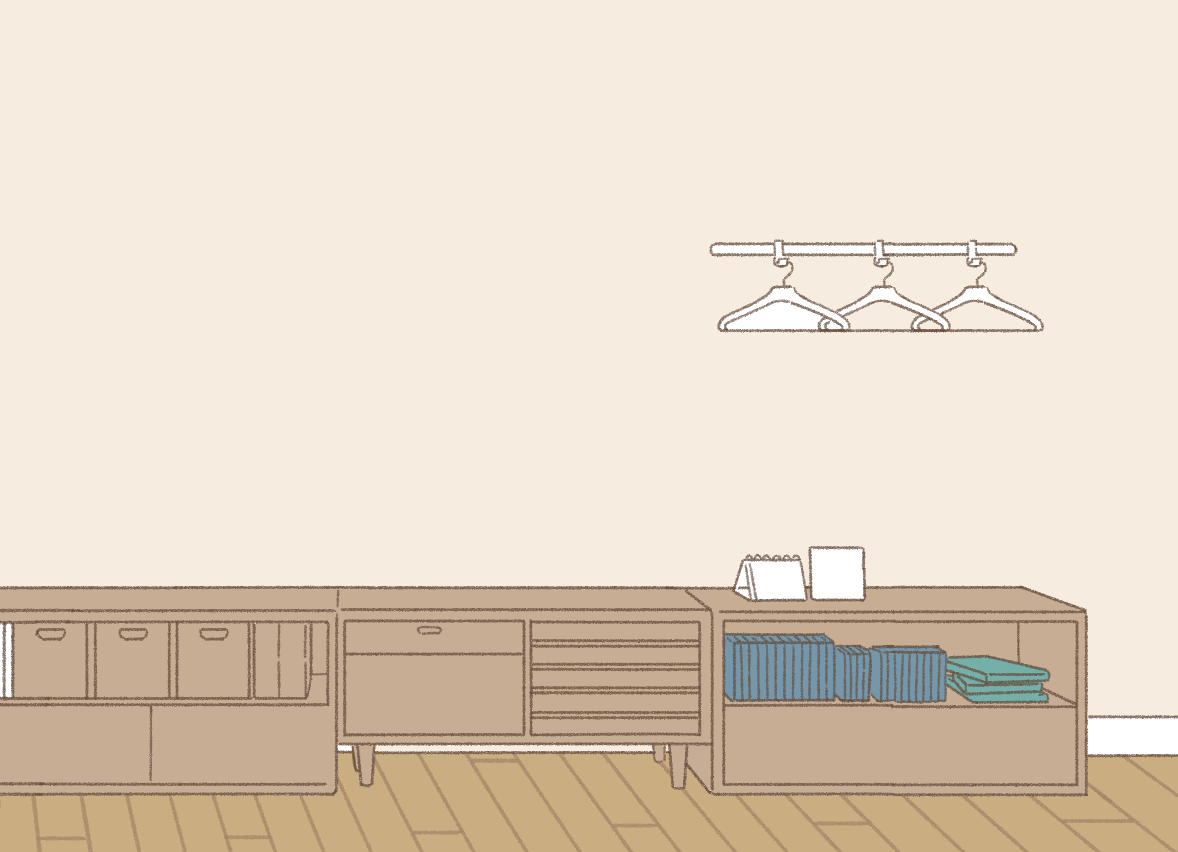
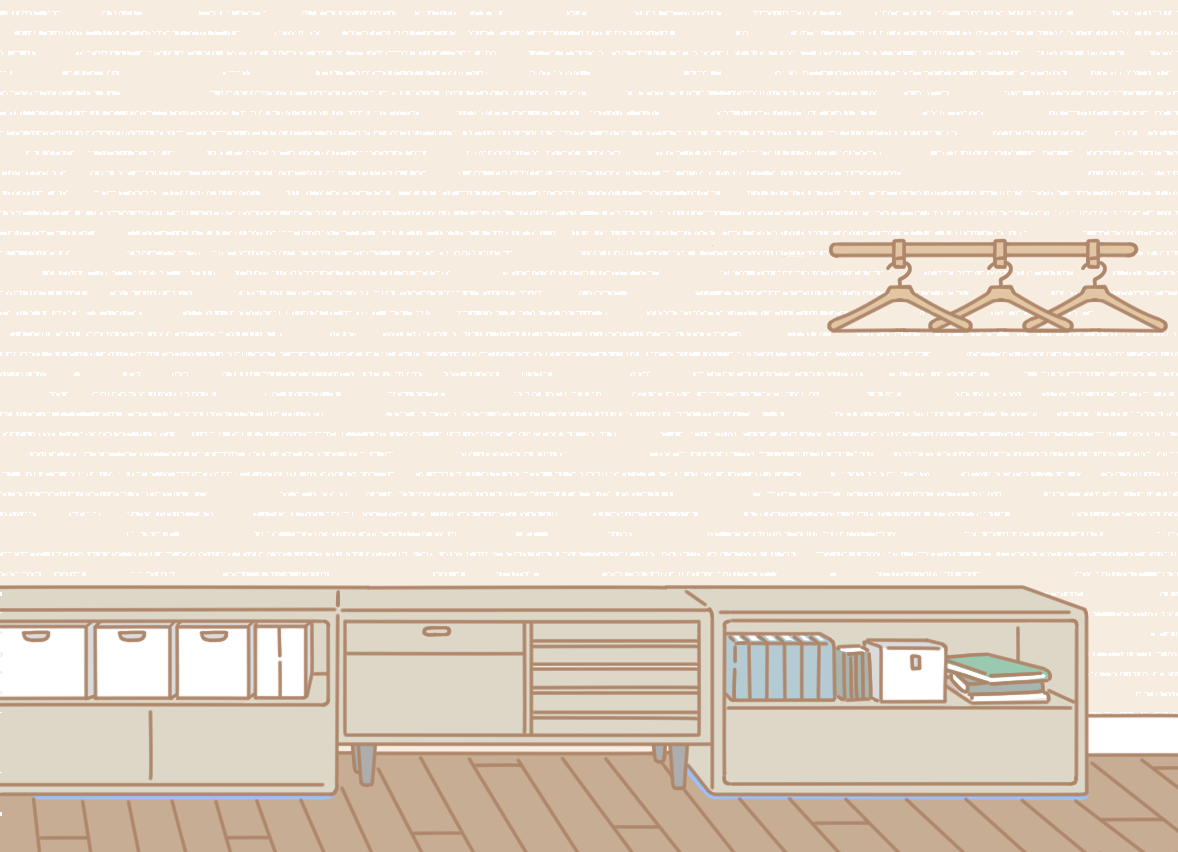
chore: 調整 camera 符合不同裝置大小 以及 房間設定

diff --git a/lib/components/home.dart b/lib/components/home.dart
@@ -1,12 +1,18 @@
 import 'package:flame/components.dart';
 import 'package:flame/experimental.dart';
+import 'package:work_on_time_game/models/vector_with_index.dart';
 import 'package:work_on_time_game/wot_game.dart';
 
-Map<String, Vector2> itemPositions = {
-  'clock': Vector2(140, 176),
-  'pay': Vector2(1006, 633),
-  'tv': Vector2(456, 460),
-  'box': Vector2(59, 598),
+Map<String, VectorWithIndex> itemPositions = {
+  'bill': VectorWithIndex(x: 1001, y: 594),
+  'box': VectorWithIndex(x: 67, y: 541),
+  'calendar': VectorWithIndex(x: 704, y: 548),
+  'clock': VectorWithIndex(x: 161, y: 159),
+  'coat': VectorWithIndex(x: 791, y: 283, index: 1),
+  'picFrame': VectorWithIndex(x: 797, y: 542),
+  'scarf': VectorWithIndex(x: 964, y: 327),
+  'tv': VectorWithIndex(x: 356, y: 416),
+  'vase': VectorWithIndex(x: 0, y: 416),
 };
 
 class Home extends PositionComponent with HasGameReference<WOTGame> {
@@ -25,11 +31,9 @@ class Home extends PositionComponent with HasGameReference<WOTGame> {
 
     final image = game.images.fromCache("room/bg.png");
     final sprite = Sprite(image);
-    final scale = game.size.y / sprite.src.bottom;
-    final width = sprite.src.width * scale;
+    final width = sprite.src.width;
     background = SpriteComponent(
       sprite: sprite,
-      size: Vector2(width, game.size.y),
     );
     size = Vector2(width, game.size.y);
     add(background);
@@ -40,7 +44,8 @@ class Home extends PositionComponent with HasGameReference<WOTGame> {
         final sprite = Sprite(image);
         final itemComponent = SpriteComponent(
           sprite: sprite,
-          position: itemPositions[item]!,
+          position: itemPositions[item]!.vector2,
+          priority: itemPositions[item]!.index,
         );
         add(itemComponent);
       }

diff --git a/lib/scene/playground.dart b/lib/scene/playground.dart
@@ -14,12 +14,27 @@ class Playground extends World with HasGameReference<WOTGame> {
 
     await Flame.images.loadAll([
       'room/bg.png',
+      'room/bill.png',
       'room/box.png',
+      'room/calendar.png',
       'room/clock.png',
-      'room/pay.png',
-      'room/tv.png'
+      'room/coat.png',
+      'room/picFrame.png',
+      'room/scarf.png',
+      'room/tv.png',
+      'room/vase.png',
     ]);
-    final home = Home.withItems(['box', 'clock', 'pay', 'tv']);
+    final home = Home.withItems([
+      'bill',
+      'box',
+      'calendar',
+      'clock',
+      'coat',
+      'picFrame',
+      'scarf',
+      'tv',
+      'vase'
+    ]);
     add(home);
 
     game.camera.viewfinder.anchor = Anchor.topLeft;

diff --git a/lib/wot_game.dart b/lib/wot_game.dart
@@ -12,17 +12,18 @@ class WOTGame extends FlameGame with PanDetector {
   @override
   void onLoad() {
     world = Playground();
+    // 固定解析度(?) 看起來不用出兩倍圖了Ａ＿Ａ
+    camera = CameraComponent.withFixedResolution(
+      width: 393,
+      height: 852,
+    );
   }
 
   // - PanDetector
   // 看起來能只透過FlameGame extends PanDetector 來實現嗎
+  @override
   void onPanDown(DragDownInfo info) {
     super.onPanDown(info);
-  }
-
-  @override
-  void onPanStart(DragStartInfo info) {
-    super.onPanStart(info);
   }
 
   @override

diff --git a/lib/models/vector_with_index.dart b/lib/models/vector_with_index.dart
@@ -1,0 +1,12 @@
+import 'package:flame/components.dart';
+
+class VectorWithIndex {
+  final int index;
+  final Vector2 vector2;
+
+  VectorWithIndex({
+    this.index = 0,
+    required double x,
+    required double y,
+  }) : vector2 = Vector2(x, y);
+}
